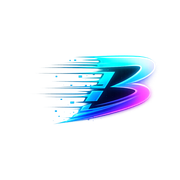
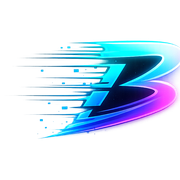
community

Changed region(s): [[0.1111, 0.2222, 1.0, 0.7778], [0.25, 0.6944, 0.2778, 0.7222]]

diff --git a/components/game/SimpleGame.tsx b/components/game/SimpleGame.tsx
@@ -91,7 +91,7 @@ export default function SimpleGame() {
   const ui = useUIState()
   const router = useRouter()
   
-  const { distance, score, isGameOver, lastAttacker, lastThreatType, setDistance, addScore, setGameOver, setRunning, setLastAttacker, resetGame, addLeaderboardEntry, setLeaderboard } = useGameStore()
+  const { distance, score, isGameOver, lastAttacker, lastThreatType, setDistance, setScore, setGameOver, setRunning, setLastAttacker, resetGame, addLeaderboardEntry, setLeaderboard } = useGameStore()
 
   const buildRecoveryOverlayState = (kitType: string, threatId: string | null): Omit<RecoveryOverlayState, 'timeLeft' | 'progress'> => {
     const protectionKit = getProtectionKitById(kitType)
@@ -353,6 +353,7 @@ export default function SimpleGame() {
     let playerY = canvas.height / 2
     let playerSize = 45 // Bigger player for better visibility
     let playerSpeed = 5
+    let localScore = 0 // Single source of truth for score during gameplay
     
     // Level state
     let currentLevel = 1
@@ -1680,7 +1681,7 @@ export default function SimpleGame() {
         // Apply speed bonus
         if (quiz.refs.currentQuizRef.current) {
           obstacleSpeed *= quiz.refs.currentQuizRef.current.speedBonus
-          addScore(500) // Bonus points for completing quiz
+          localScore += 500 // Bonus points for completing quiz
           
           // Show success message
           showQuizCompletionMessage = true
@@ -2372,7 +2373,7 @@ const passwordWidth = ctx.measureText(passwordText).width
         ctx.fillStyle = '#6ee7ff'
         const scoreTextX = hudX + hudWidth - 16
         ctx.textAlign = 'right'
-        ctx.fillText(`${score}`, scoreTextX, hudY + (canvas.width < 768 ? 27 : 30))
+        ctx.fillText(`${localScore}`, scoreTextX, hudY + (canvas.width < 768 ? 27 : 30))
         ctx.textAlign = 'left'
       }
       
@@ -2604,7 +2605,7 @@ const opacity = 1 - (timeSinceSpawn / 2000) // Fade out
             lastHitThreatId = obstacle.threatId
             setLastAttacker(obstacle.sentBy, obstacle.threatId)
             showTutorial(requiredKit, obstacle.threatId)
-            addScore(-25) // Cost for consuming kit
+            localScore -= 25 // Cost for consuming kit
             returnObstacleToPool(obstacle)
             return false
           } else {
@@ -2623,22 +2624,25 @@ const opacity = 1 - (timeSinceSpawn / 2000) // Fade out
               obstacles = []
               
               // Bonus score for survival via backup
-              addScore(-100) // Cost for consuming backup kit
+              localScore -= 100 // Cost for consuming backup kit
               
               // Remove the threat
               returnObstacleToPool(obstacle)
               return false
             } else {
               // No kit AND no backup - game over
+              // Sync local score to Zustand store
+              setScore(localScore)
+              
               // Save game state for quiz continuation option
               setSavedGameState({
                 level: currentLevel,
                 kits: { ...kitInventory },
-                score: score
+                score: localScore
               })
               lastHitThreatId = obstacle.threatId
               setLastAttacker(obstacle.sentBy, obstacle.threatId)
-              trackGameOver(currentLevel, score, obstacle.threatId)
+              trackGameOver(currentLevel, localScore, obstacle.threatId)
               setGameOver(true)
               setRunning(false)
               // Track first death for tutorial tooltip
@@ -2739,7 +2743,7 @@ powerups = powerups.filter(kit => {
             quiz.actions.collectItem(itemId, isCorrect)
             
             if (isCorrect) {
-              addScore(100)
+              localScore += 100
               
               // Green flash for correct
               ctx.fillStyle = 'rgba(0, 255, 0, 0.3)'
@@ -2761,7 +2765,7 @@ powerups = powerups.filter(kit => {
           if (kitType && kitInventory[kitType] !== undefined && kitInventory[kitType] < MAX_KIT_CAPACITY) {
             kitInventory[kitType]++
             totalKitsCollected++
-            addScore(50)
+            localScore += 50
             trackKitCollected(kitType, totalKitsCollected)
             
             // ⭐ TRIGGER CELEBRATION ANIMATION! ⭐
@@ -3096,7 +3100,7 @@ powerups = powerups.filter(kit => {
         img.src = ''
       })
     }
-  }, [gameStarted, isGameOver, setDistance, addScore, setGameOver, setRunning, setLastAttacker, resetGame, setLevel, ui.state.mobileHudExpanded, ui.state.desktopHudExpanded])
+  }, [gameStarted, isGameOver, setDistance, setScore, setGameOver, setRunning, setLastAttacker, resetGame, setLevel, ui.state.mobileHudExpanded, ui.state.desktopHudExpanded])
 
   const refreshLeaderboard = async () => {
     try {

diff --git a/app/contests/[id]/page.tsx b/app/contests/[id]/page.tsx
@@ -170,7 +170,7 @@ export default function ContestDetailPage({ params }: { params: { id: string } }
 
   if (loading) {
     return (
-      <div className="relative min-h-screen text-white flex items-center justify-center overflow-hidden space-background">
+      <div className="relative min-h-screen text-white flex items-center justify-center overflow-y-auto overflow-x-hidden space-background" style={{ WebkitOverflowScrolling: 'touch' }}>
         <div className="relative z-10 text-center">
           <div className="inline-block animate-spin rounded-full h-12 w-12 border-4 border-cyan-400 border-t-transparent"></div>
           <p className="text-gray-400 mt-4 font-mono">Loading contest...</p>
@@ -190,7 +190,7 @@ export default function ContestDetailPage({ params }: { params: { id: string } }
 
   if (!contest) {
     return (
-      <div className="relative min-h-screen text-white flex items-center justify-center overflow-hidden space-background">
+      <div className="relative min-h-screen text-white flex items-center justify-center overflow-y-auto overflow-x-hidden space-background" style={{ WebkitOverflowScrolling: 'touch' }}>
         <div className="relative z-10 text-center">
           <p className="text-gray-400 text-lg">Contest not found</p>
           <a href="/contests" className="text-cyan-400 hover:text-cyan-300 underline mt-4 inline-block">
@@ -211,10 +211,10 @@ export default function ContestDetailPage({ params }: { params: { id: string } }
   }
 
   return (
-    <div className="relative min-h-screen text-white overflow-hidden space-background">
+    <div className="relative min-h-screen text-white overflow-y-auto overflow-x-hidden space-background" style={{ WebkitOverflowScrolling: 'touch', overscrollBehavior: 'contain' }}>
       <div className="absolute inset-0 vignette pointer-events-none" />
       
-      <div className="relative z-10 max-w-6xl mx-auto px-4 py-8">
+      <div className="relative z-10 max-w-6xl mx-auto px-4 py-8 pb-20">
         {/* Header */}
         <div className="text-center mb-8">
           <img

diff --git a/generate-favicons.js b/generate-favicons.js
@@ -48,7 +48,19 @@ async function generateFavicons() {
     for (const { name, size } of sizes) {
       const outputPath = path.join(PUBLIC_DIR, name);
       
+      // Get image metadata to calculate zoom crop
+      const metadata = await sharp(LOGO_PATH).metadata();
+      const { width, height } = metadata;
+      
+      // Zoom factor: crop to 70% of center to make logo bigger
+      const zoomFactor = 0.7;
+      const cropWidth = Math.floor(width * zoomFactor);
+      const cropHeight = Math.floor(height * zoomFactor);
+      const left = Math.floor((width - cropWidth) / 2);
+      const top = Math.floor((height - cropHeight) / 2);
+      
       await sharp(LOGO_PATH)
+        .extract({ left, top, width: cropWidth, height: cropHeight })
         .resize(size, size, {
           fit: 'cover',
           position: 'center',
@@ -64,9 +76,21 @@ async function generateFavicons() {
     console.log('\n🔨 Generating favicon.ico...');
     const icoPath = path.join(PUBLIC_DIR, 'favicon.ico');
     
+    // Get image metadata for zoom crop
+    const metadata = await sharp(LOGO_PATH).metadata();
+    const { width, height } = metadata;
+    
+    // Zoom factor: crop to 70% of center to make logo bigger
+    const zoomFactor = 0.7;
+    const cropWidth = Math.floor(width * zoomFactor);
+    const cropHeight = Math.floor(height * zoomFactor);
+    const left = Math.floor((width - cropWidth) / 2);
+    const top = Math.floor((height - cropHeight) / 2);
+    
     // For .ico file, we'll just use the 32x32 as a fallback
     // (True multi-size .ico requires additional libraries)
     await sharp(LOGO_PATH)
+      .extract({ left, top, width: cropWidth, height: cropHeight })
       .resize(32, 32, {
         fit: 'cover',
         position: 'center',
